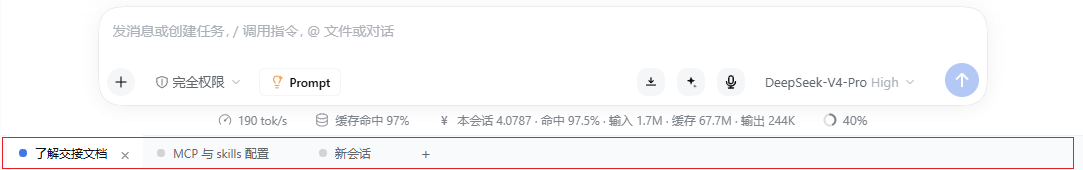
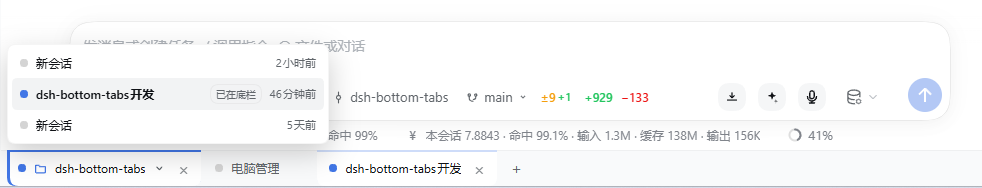
docs: 补充工作区标签说明、最近更新与 CHANGELOG
- 中英文 README 增加工作区标签功能行、使用步骤与最近更新小节
- 新增 CHANGELOG.md，记录 v0.2.0 与 v0.1.x
- 底栏截图换成带工作区标签与弹层的实拍图

diff --git a/README.en.md b/README.en.md
@@ -1,13 +1,13 @@
 <h1 align="center">🗂 dsh-bottom-tabs</h1>
 
-<p align="center"><b>Browser-style session tabs for the DeepSeek Harness Web UI.</b></p>
+<p align="center"><b>A browser-style session tab strip for the DeepSeek Harness Web UI.</b></p>
 
 <p align="center">
-  Sessions side by side · upside-down tabs along the bottom edge · status at a glance
+  Sessions and workspaces side by side · one click to unfold a workspace · status at a glance
 </p>
 
 <p align="center">
-  <a href="./README.md">简体中文</a> · <a href="./README.en.md">English</a>
+  <a href="./README.en.md">English</a> · <a href="./README.md">简体中文</a>
 </p>
 
 <p align="center">
@@ -16,10 +16,10 @@
   <img src="https://img.shields.io/badge/runtime-browser%20only-lightgrey?style=flat-square" alt="browser only">
 </p>
 
-> 💡 **What it solves.** Once the sidebar holds a pile of sessions, switching between them means scrolling a list. This strip puts the sessions you are using or keep coming back to side by side at the **bottom** of the window, so you switch with a click — like a browser or VS Code.
+> 💡 **What problem does it solve?** When the sidebar holds a lot of sessions, switching means scrolling a list. The tab strip pins the sessions you are using or keep coming back to side by side at the **bottom** of the window, so you switch with a click — like a browser or VS Code.
 
 <p align="center">
-  <img src="./assets/tab-bar.png" alt="Tab strip at the bottom of the window: the current tab has a white body and a blue dot; the others show grey dots" width="100%">
+  <img src="./assets/tab-bar.png" alt="Bottom tab strip plus a workspace popover: the current workspace tab (folder glyph, accent bar, chevron) with its session list popped up above it, then session tabs and the new-tab button" width="100%">
 </p>
 
 ***
@@ -29,89 +29,104 @@
 <table>
 <tr><th align="center" width="130">Module</th><th align="left">What it does</th></tr>
 <tr>
-<td align="center">🗂<br/><b>Session tabs</b></td>
-<td>One tab per <strong>real session</strong>. Click to switch; the active tab gets a blue dot and a solid background that "grows into" the page above.</td>
-</tr>
-<tr>
 <td align="center">➕<br/><b>New tab</b></td>
-<td>Click the <code>+</code> icon to open a new session in the current workspace; the new session <strong>automatically</strong> becomes a tab.</td>
+<td>Click the <code>“+”</code> button to open a new session in the current workspace; the new session becomes a tab <strong>automatically</strong>.</td>
 </tr>
 <tr>
 <td align="center">✖<br/><b>Close tab</b></td>
-<td>Click <code>×</code> or <strong>middle-click</strong> to take a tab out of the strip. The tab only — the session is <strong>not archived</strong> and stays in the sidebar. Closing the active tab switches to its neighbour automatically.</td>
+<td>Click <code>×</code> or <strong>middle-click</strong> to take a tab out of the strip. The tab only — the session is <strong>not archived</strong> and stays in the sidebar.</td>
 </tr>
 <tr>
-<td align="center">↔<br/><b>Drag to reorder</b></td>
-<td>Press and drag any tab left or right; the other tabs <strong>move aside live</strong> as the pointer passes, and the new order is cached immediately. Dropping on empty space moves the tab to the far right.</td>
+<td align="center">↔<br/><b>Reorder</b></td>
+<td>Drag any tab left or right; the other tabs make room <strong>as you drag</strong>, and the new order is written to storage immediately. Dropping on empty space moves it to the far right.</td>
 </tr>
 <tr>
-<td align="center">🖱<br/><b>Add from menu</b></td>
-<td>Right-click any session in the sidebar → <strong>Add to tab</strong>. The item is greyed out for sessions already in the strip.</td>
+<td align="center">🖱<br/><b>Right-click to add</b></td>
+<td>Right-click any session in the sidebar → <strong>Add to tab strip</strong>. The item is greyed out for sessions already in the strip.</td>
+</tr>
+<tr>
+<td align="center">📁<br/><b>Workspace tabs</b></td>
+<td>Right-click any <strong>workspace</strong> in the sidebar → <strong>Add to tab strip</strong>. A workspace tab carries a folder glyph and a <code>⌄</code> chevron, so it never reads as a session tab.</td>
 </tr>
 <tr>
 <td align="center">💾<br/><b>Persistence</b></td>
-<td>Tab order and cached titles live in <code>localStorage</code>, so they survive a page reload or a GUI restart.</td>
+<td>Tab order, cached titles and each workspace's last active session live in <code>localStorage</code>, so they survive a page reload or a GUI restart.</td>
 </tr>
 <tr>
 <td align="center">🪶<br/><b>Lightweight</b></td>
-<td>Client-side only, a single <code>client.js</code>: no host services, no network, no file writes.</td>
+<td>Pure client-side plugin in a single <code>client.js</code>; registers no host service, makes no network calls, writes no files.</td>
 </tr>
 </table>
 
 ## 🚀 Install
 
-Requires DeepSeek Harness (desktop app or Web UI). The strip lives in the Web UI, independent of the DSH version installed.
+Requires the DeepSeek Harness desktop app or Web UI (the strip lives in the Web interface and does not depend on your local DSH version).
 
 ```
-# install from npm (recommended)
+# Install from npm (recommended)
 plugin_manager install_bundle dsh-bottom-tabs
 
-# install from a local path (when editing the code)
+# Install from a local path (while editing the code)
 plugin_manager install_bundle E:\path\to\dsh-bottom-tabs
 
-# uninstall
+# Uninstall
 plugin_manager remove_bundle dsh-bottom-tabs
 ```
 
-Package page: <https://www.npmjs.com/package/dsh-bottom-tabs>. Then reload the Web UI (Ctrl+R). For development, linking the repository path into the profile works the same way — edit and refresh.
+npm page: <https://www.npmjs.com/package/dsh-bottom-tabs>. Refresh the Web UI afterwards (Ctrl+R). During development, `link`-ing the repository path into the profile has the same effect — refresh to pick up changes.
 
-> Do not hand-edit the profile's `package.json`: the plugin manager maintains both `dependencies` and `dsh.profile.bundles`. Editing one of them by hand usually means the plugin either does not load or loads twice.
+> Don't hand-edit the profile's `package.json`: the plugin manager maintains both `dependencies` and `dsh.profile.bundles`, and a partial manual edit easily leaves the plugin unloaded or loaded twice.
 
 ## 📖 Usage
 
-1. **First run**: the strip seeds itself with your current session, so it is never empty.
+1. **First open**: the strip seeds one tab from the current session, so it is never empty.
 2. **Switch**: click a tab to jump to that session — the same as clicking it in the sidebar.
-3. **New**: `+` starts a new session (same as the sidebar's "New session") and appends it as a tab.
-4. **Close**: `×` or middle-click. It only leaves the strip; the session is untouched and can be added back from the context menu.
-5. **Add existing**: right-click a sidebar session → "Add to tab".
-6. **Reorder**: drag a tab left or right; it moves into place while you drag, and the order is remembered.
+3. **New**: "+" creates a new session (same as the sidebar's "New session") and appends it as a tab.
+4. **Close**: `×` or middle-click; the tab leaves the strip, the session is untouched and can be added back from the context menu.
+5. **Add existing**: right-click a sidebar session → "Add to tab strip".
+6. **Reorder**: drag a tab left or right; the order is remembered.
+7. **Workspace tabs**: right-click a workspace in the sidebar → "Add to tab strip".
+
+## 🆕 Recent updates
+
+### v0.2.0 — workspace tabs
+
+- Right-clicking a workspace in the sidebar now offers **Add to tab strip**.
+- The popover shows status dots, relative time and an "in tab strip" badge, and leaves archived sessions out; clicking outside, `Esc`, scrolling or resizing collapses it.
+
+### v0.1.1 / v0.1.0
+
+- Bottom session tab strip: new tab, close (`×` / middle-click), drag to reorder, status dots, `localStorage` persistence.
+
+Full history in [CHANGELOG.md](./CHANGELOG.md) (Chinese).
 
 ### Status dots
 
 | Dot | Meaning |
 |---|---|
 | 🔵 Blue | The session currently on screen |
-| 🟢 Green | Not current, finished, and you have not looked at it yet (`completionUnread`) |
-| ⚪ Grey + blue breathing ring | Not current, currently thinking / running |
+| 🟢 Green | Not current, thinking finished but you have not looked yet (`completionUnread`) |
+| ⚪ Grey + blue breathing ring | Not current, thinking / running |
 | ⚪ Grey | Plain tab, nothing new |
 
-> Priority: current > unread > thinking > idle. The current session never pulses while thinking — the conversation area itself already gives that feedback.
+> Priority: current > unread > thinking > plain. The current session does not pulse even while thinking — the conversation area already shows that.
 
 ## 🧩 Compatibility
 
-- The DeepSeek Harness Web UI (the Web view embedded in the desktop window, or the same UI opened directly in a browser).
-- Chromium-based browsers (Chrome / Edge). Tab state is stored in `localStorage` per UI origin, so changing port or token does not lose it on the same origin.
-- No host-side services required. Where `contextMenus` is unavailable the context-menu entry is simply absent and the strip keeps working.
+- The DeepSeek Harness Web UI (the Web view embedded in the desktop window, or a browser pointed at it).
+- Chromium-based browsers (Chrome / Edge). Tab state is stored per UI origin in `localStorage`, so a port or token change does not affect the same origin's data.
+- No host-side service required; where the `contextMenus` service is missing, the menu entries simply do not appear and the strip keeps working.
 
 ## 🛠 Development
 
 ```sh
-# No build step: the repository itself is the installable bundle
-# edit client.js → reload the page (Ctrl+R) and it takes effect
+# No build step: the repository itself is an installable bundle
+# Edit client.js → refresh the page (Ctrl+R) to apply
 ```
 
-- Layout: `client.js` (all front-end logic) · `index.js` (empty host entry) · `cordis.patch.yml` (bundle mount) · `locale/*.json` (plugin metadata strings).
-- Debug: `[session-tabs]` lines in the DSH Web console; tab state in `localStorage['dsh.session-tabs.v1']`.
+- Repository layout: `client.js` (all front-end logic) · `index.js` (empty host entry) · `cordis.patch.yml` (bundle mount) · `locale/*.json` (plugin metadata strings).
+- Debugging: watch for the `[session-tabs]` prefix in the DSH Web console; tab state lives in `localStorage['dsh.session-tabs.v1']` with the shape `{ v: 2, order: [{ k: 's' | 'w', id }], titles, wsTitles, wsLast }`.
+- Backward compatibility: the `v1`-era `order: string[]` is normalized into session entries on read, and the **key name never changes**; the first write back after upgrading copies the original value verbatim to `dsh.session-tabs.v1.bak` (once, for manual recovery). An older plugin reading the new data degrades to session-only tabs and loses no configuration.
 - Tunables: CSS variables `--dsst-height` (36px) / `--dsst-tab-min` (56px) / `--dsst-tab-max` (200px) / `--dsst-pulse` (1.4s).
 
 ## 📄 License
@@ -122,4 +137,4 @@ Package page: <https://www.npmjs.com/package/dsh-bottom-tabs>. Then reload the W
 
 ## ⭐ Support
 
-If this is useful, give it a **Star ⭐**. Ideas and bug reports are welcome as Issues / PRs.
+If it helps, drop a **Star ⭐**; ideas and issues are welcome as Issue / PR.

diff --git a/README.md b/README.md
@@ -3,7 +3,7 @@
 <p align="center"><b>给 DeepSeek Harness Web UI 一条浏览器风格的会话标签栏。</b></p>
 
 <p align="center">
-  多个会话并列切换 · 底栏倒挂页签 · 状态一眼可见
+  会话与工作区并列切换 · 工作区一键展开 · 状态一眼可见
 </p>
 
 <p align="center">
@@ -19,7 +19,7 @@
 > 💡 **它解决什么？** 左侧栏会话比较多的时候，切换会话，需要翻列表。标签栏把多个在用或常用会话并排挂在窗口**底部**，像浏览器或 VS Code 一样点击切换。
 
 <p align="center">
-  <img src="./assets/tab-bar.png" alt="窗口底部标签栏：当前标签白底长进页面、蓝点标记，其余标签灰点" width="100%">
+  <img src="./assets/tab-bar.png" alt="窗口底部标签栏 + 工作区弹层：左边是当前工作区「dsh-bottom-tabs」标签（文件夹字形、蓝竖条、展开箭头），它上方弹出该工作区的会话列表；右边是会话标签与新建按钮" width="100%">
 </p>
 
 ***
@@ -29,16 +29,12 @@
 <table>
 <tr><th align="center" width="130">模块</th><th align="left">说明</th></tr>
 <tr>
-<td align="center">🗂<br/><b>会话标签</b></td>
-<td>底部一条标签栏，每个标签是一个<strong>真实会话</strong>；点一下即切换，当前标签蓝点 + 白底"长进"页面里。</td>
-</tr>
-<tr>
 <td align="center">➕<br/><b>新建标签</b></td>
 <td>点击<code>“+”</code>图标按钮，在当前工作区自动打开新会话，新会话创建后<strong>自动</strong>成为一个标签。</td>
 </tr>
 <tr>
 <td align="center">✖<br/><b>关闭标签</b></td>
-<td>点击<code>×</code> 或<strong>鼠标中键</strong>把标签移出标签栏；只关标签、<strong>不归档会话</strong>，侧栏里它还在。关掉当前标签时自动切到相邻的一个。</td>
+<td>点击<code>×</code> 或<strong>鼠标中键</strong>把标签移出标签栏；只关标签、<strong>不归档会话</strong>，侧栏里它还在。</td>
 </tr>
 <tr>
 <td align="center">↔<br/><b>拖拽排序</b></td>
@@ -46,11 +42,15 @@
 </tr>
 <tr>
 <td align="center">🖱<br/><b>右键添加</b></td>
-<td>侧栏任意会话右键 →「<strong>添加到 Tab</strong>」；已在标签栏中的会话该项<strong>置灰</strong>。</td>
+<td>侧栏任意会话右键 →「<strong>添加到标签栏</strong>」；已在标签栏中的会话该项<strong>置灰</strong>。</td>
+</tr>
+<tr>
+<td align="center">📁<br/><b>工作区标签</b></td>
+<td>侧栏任意<strong>工作区</strong>右键 →「<strong>添加到标签栏</strong>」。工作区标签带文件夹字形与 <code>⌄</code> 展开箭头，一眼区别于会话标签。</td>
 </tr>
 <tr>
 <td align="center">💾<br/><b>持久化</b></td>
-<td>标签顺序与标题缓存在 <code>localStorage</code>，刷新页面、重启 GUI 后都还在。</td>
+<td>标签顺序、标题缓存与「工作区上次活跃会话」都存在 <code>localStorage</code>，刷新页面、重启 GUI 后都还在。</td>
 </tr>
 <tr>
 <td align="center">🪶<br/><b>轻量</b></td>
@@ -83,8 +83,22 @@ npm 包页：<https://www.npmjs.com/package/dsh-bottom-tabs>。装完刷新 Web 
 2. **切换**：点标签即可跳到该会话，等于侧栏里点它一下。
 3. **新建**：「+」创建新会话（同侧栏「新会话」），创建完自动追加成标签。
 4. **关闭**：`×` 或中键；只从标签栏移除，会话本身不受影响，还能从右键菜单加回来。
-5. **添加已有会话**：侧栏会话右键 →「添加到 Tab」。
+5. **添加已有会话**：侧栏会话右键 →「添加到标签栏」。
 6. **排序**：直接拖标签左右移动，松手前就能看到位置；顺序会被记住。
+7. **工作区标签**：侧栏工作区右键 →「添加到标签栏」。
+
+## 🆕 最近更新
+
+### v0.2.0 — 工作区标签
+
+- 侧栏工作区右键多了一项「**添加到标签栏**」。
+- 弹层里有状态点、相对时间与「已在底栏」标记，**已归档的会话不列出**；点外部、按 `Esc`、滚动或缩放都会收起。
+
+### v0.1.1 / v0.1.0
+
+- 底栏会话标签栏：新建、关闭（`×` / 中键）、拖拽排序、状态圆点、`localStorage` 持久化。
+
+完整历史见 [CHANGELOG.md](./CHANGELOG.md)。
 
 ### 圆点含义
 
@@ -111,7 +125,8 @@ npm 包页：<https://www.npmjs.com/package/dsh-bottom-tabs>。装完刷新 Web 
 ```
 
 - 仓库结构：`client.js`（全部前端逻辑）· `index.js`（空宿主入口）· `cordis.patch.yml`（bundle 挂载）· `locale/*.json`（插件元信息文案）。
-- 调试：DSH Web 控制台看 `[session-tabs]` 前缀日志；标签状态在 `localStorage['dsh.session-tabs.v1']`。
+- 调试：DSH Web 控制台看 `[session-tabs]` 前缀日志；标签状态在 `localStorage['dsh.session-tabs.v1']`，结构为 `{ v: 2, order: [{ k: 's' | 'w', id }], titles, wsTitles, wsLast }`。
+- 兼容旧数据：`v1` 时期的 `order: string[]` 读进来会自动归一化成会话条目；**键名不变**，升级后的第一次写回会把原值原样备份到 `dsh.session-tabs.v1.bak`（只备份一次，出问题可手工恢复）。旧版插件读到新数据只会退化成纯会话标签，不会丢配置。
 - 可调项：CSS 变量 `--dsst-height`(36px) / `--dsst-tab-min`(56px) / `--dsst-tab-max`(200px) / `--dsst-pulse`(1.4s)。
 
 ## 📄 License

diff --git a/CHANGELOG.md b/CHANGELOG.md
@@ -1,0 +1,11 @@
+# Changelog
+
+> dsh-bottom-tabs 的发布历史（最新摘要见 [README](./README.md)；正式发布见 [GitHub Releases](https://github.com/bd233/dsh-bottom-tabs/releases)）。
+
+## v0.2.0
+
+- 📁 **工作区标签**：支持将工作区添加到标签栏。
+
+## v0.1.1 / v0.1.0
+
+- 🗂 **首个版本**：底栏会话标签栏，新建、关闭（`×` / 中键）、拖拽排序、状态圆点，刷新后保持。
